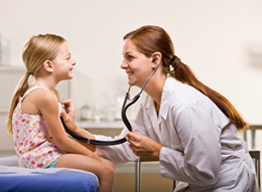
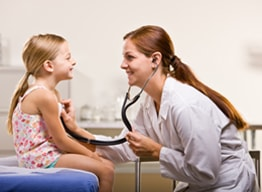
image optimized and side-nav logout deployed

diff --git a/src/shared/components/paginate/paginate.component.html b/src/shared/components/paginate/paginate.component.html
@@ -11,9 +11,17 @@
     </span>
   </div>
   <div class="btn-group my-1 mr-2" role="group">
-    <button type="button" class="btn btn-light" (click)="paginaiton('first')">First</button>
-    <button type="button" class="btn btn-light" (click)="paginaiton('previous')">Previous</button>
-    <button type="button" class="btn btn-light" (click)="paginaiton('next')">Next</button>
-    <button type="button" class="btn btn-light" (click)="paginaiton('last')">Last</button>
+    <button type="button" class="btn btn-light" (click)="paginaiton('first')">
+      <i class="fa fa-fast-backward"></i>
+    </button>
+    <button type="button" class="btn btn-light" (click)="paginaiton('previous')">
+      <i class="fa fa-step-backward"></i>
+    </button>
+    <button type="button" class="btn btn-light" (click)="paginaiton('next')">
+      <i class="fa fa-step-forward"></i>
+    </button>
+    <button type="button" class="btn btn-light" (click)="paginaiton('last')">
+      <i class="fa fa-fast-forward"></i>
+    </button>
   </div>
 </div>

diff --git a/src/dashboard/dash-navbar/dash-navbar.component.html b/src/dashboard/dash-navbar/dash-navbar.component.html
@@ -3,6 +3,12 @@
     <a class="ml-2 border px-2 py-1" [routerLink] (click)="setSideNav()">
       <span class="navbar-toggler-icon m-0"></span>
     </a>
+    <div class="company_logo">
+      <a routerLink="/">
+        <img src="assets/images/logo.ico" height="40" width="60">
+        <span class="company_logo_name">মন ফিজিওথেরাপি</span>
+      </a>
+    </div>
     <!-- <button class="navbar-toggler" type="button" data-toggle="collapse" data-target="#navbarCollapse" aria-controls="navbarCollapse"
       (click)="toggleCollapse()" aria-expanded="false" aria-label="Toggle navigation">
       <span class="navbar-toggler-icon"></span>

diff --git a/src/dashboard/dash-navbar/dash-navbar.component.scss b/src/dashboard/dash-navbar/dash-navbar.component.scss
@@ -52,6 +52,17 @@
   }
 }
 
+.company_logo {
+  a {
+    text-decoration: none;
+    color: black;
+    font-size: 20px;
+    font-weight: 600;
+    padding-right: 15px;
+    padding-left: 15px;
+  }
+}
+
 @media only screen and (max-width: 700px) {
   .company_header {
     font-size: 14px;

diff --git a/src/dashboard/side-navbar/side-navbar.component.ts b/src/dashboard/side-navbar/side-navbar.component.ts
@@ -75,4 +75,9 @@ export class SideNavbarComponent implements OnInit {
   navigateTo(url: string) {
     this.router.navigate([url]);
   }
+
+  logout() {
+    this.auth.logout();
+    this.router.navigate(['/login']);
+  }
 }
